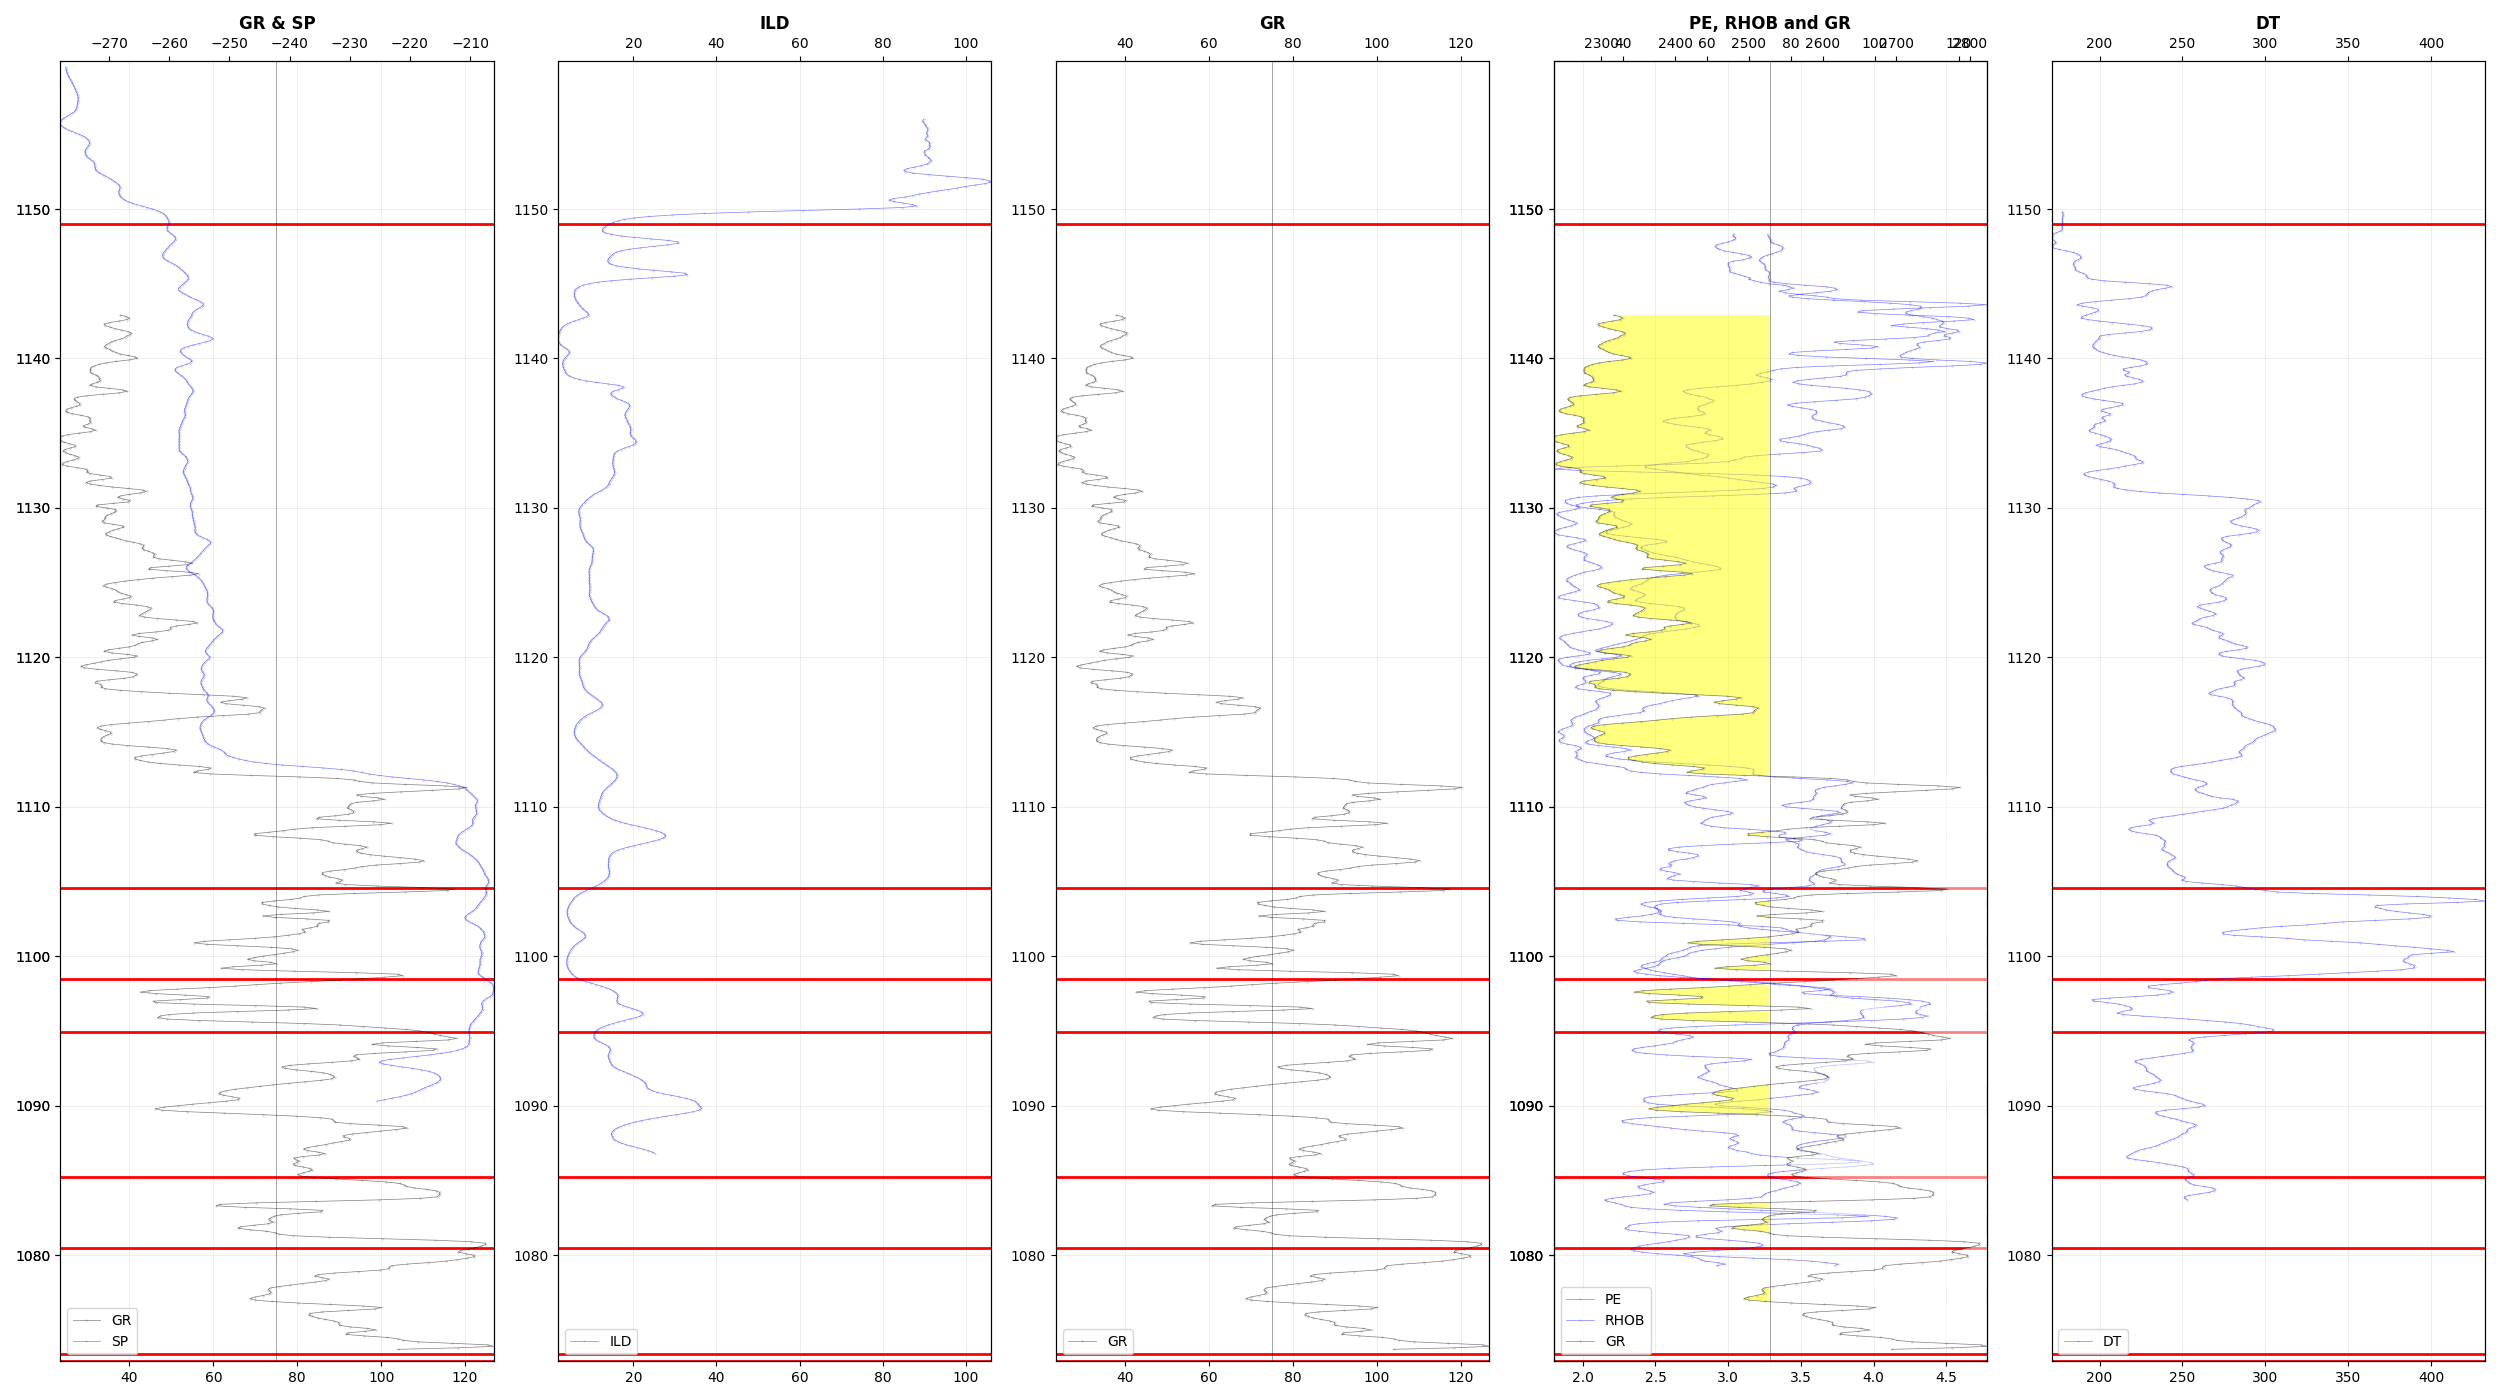
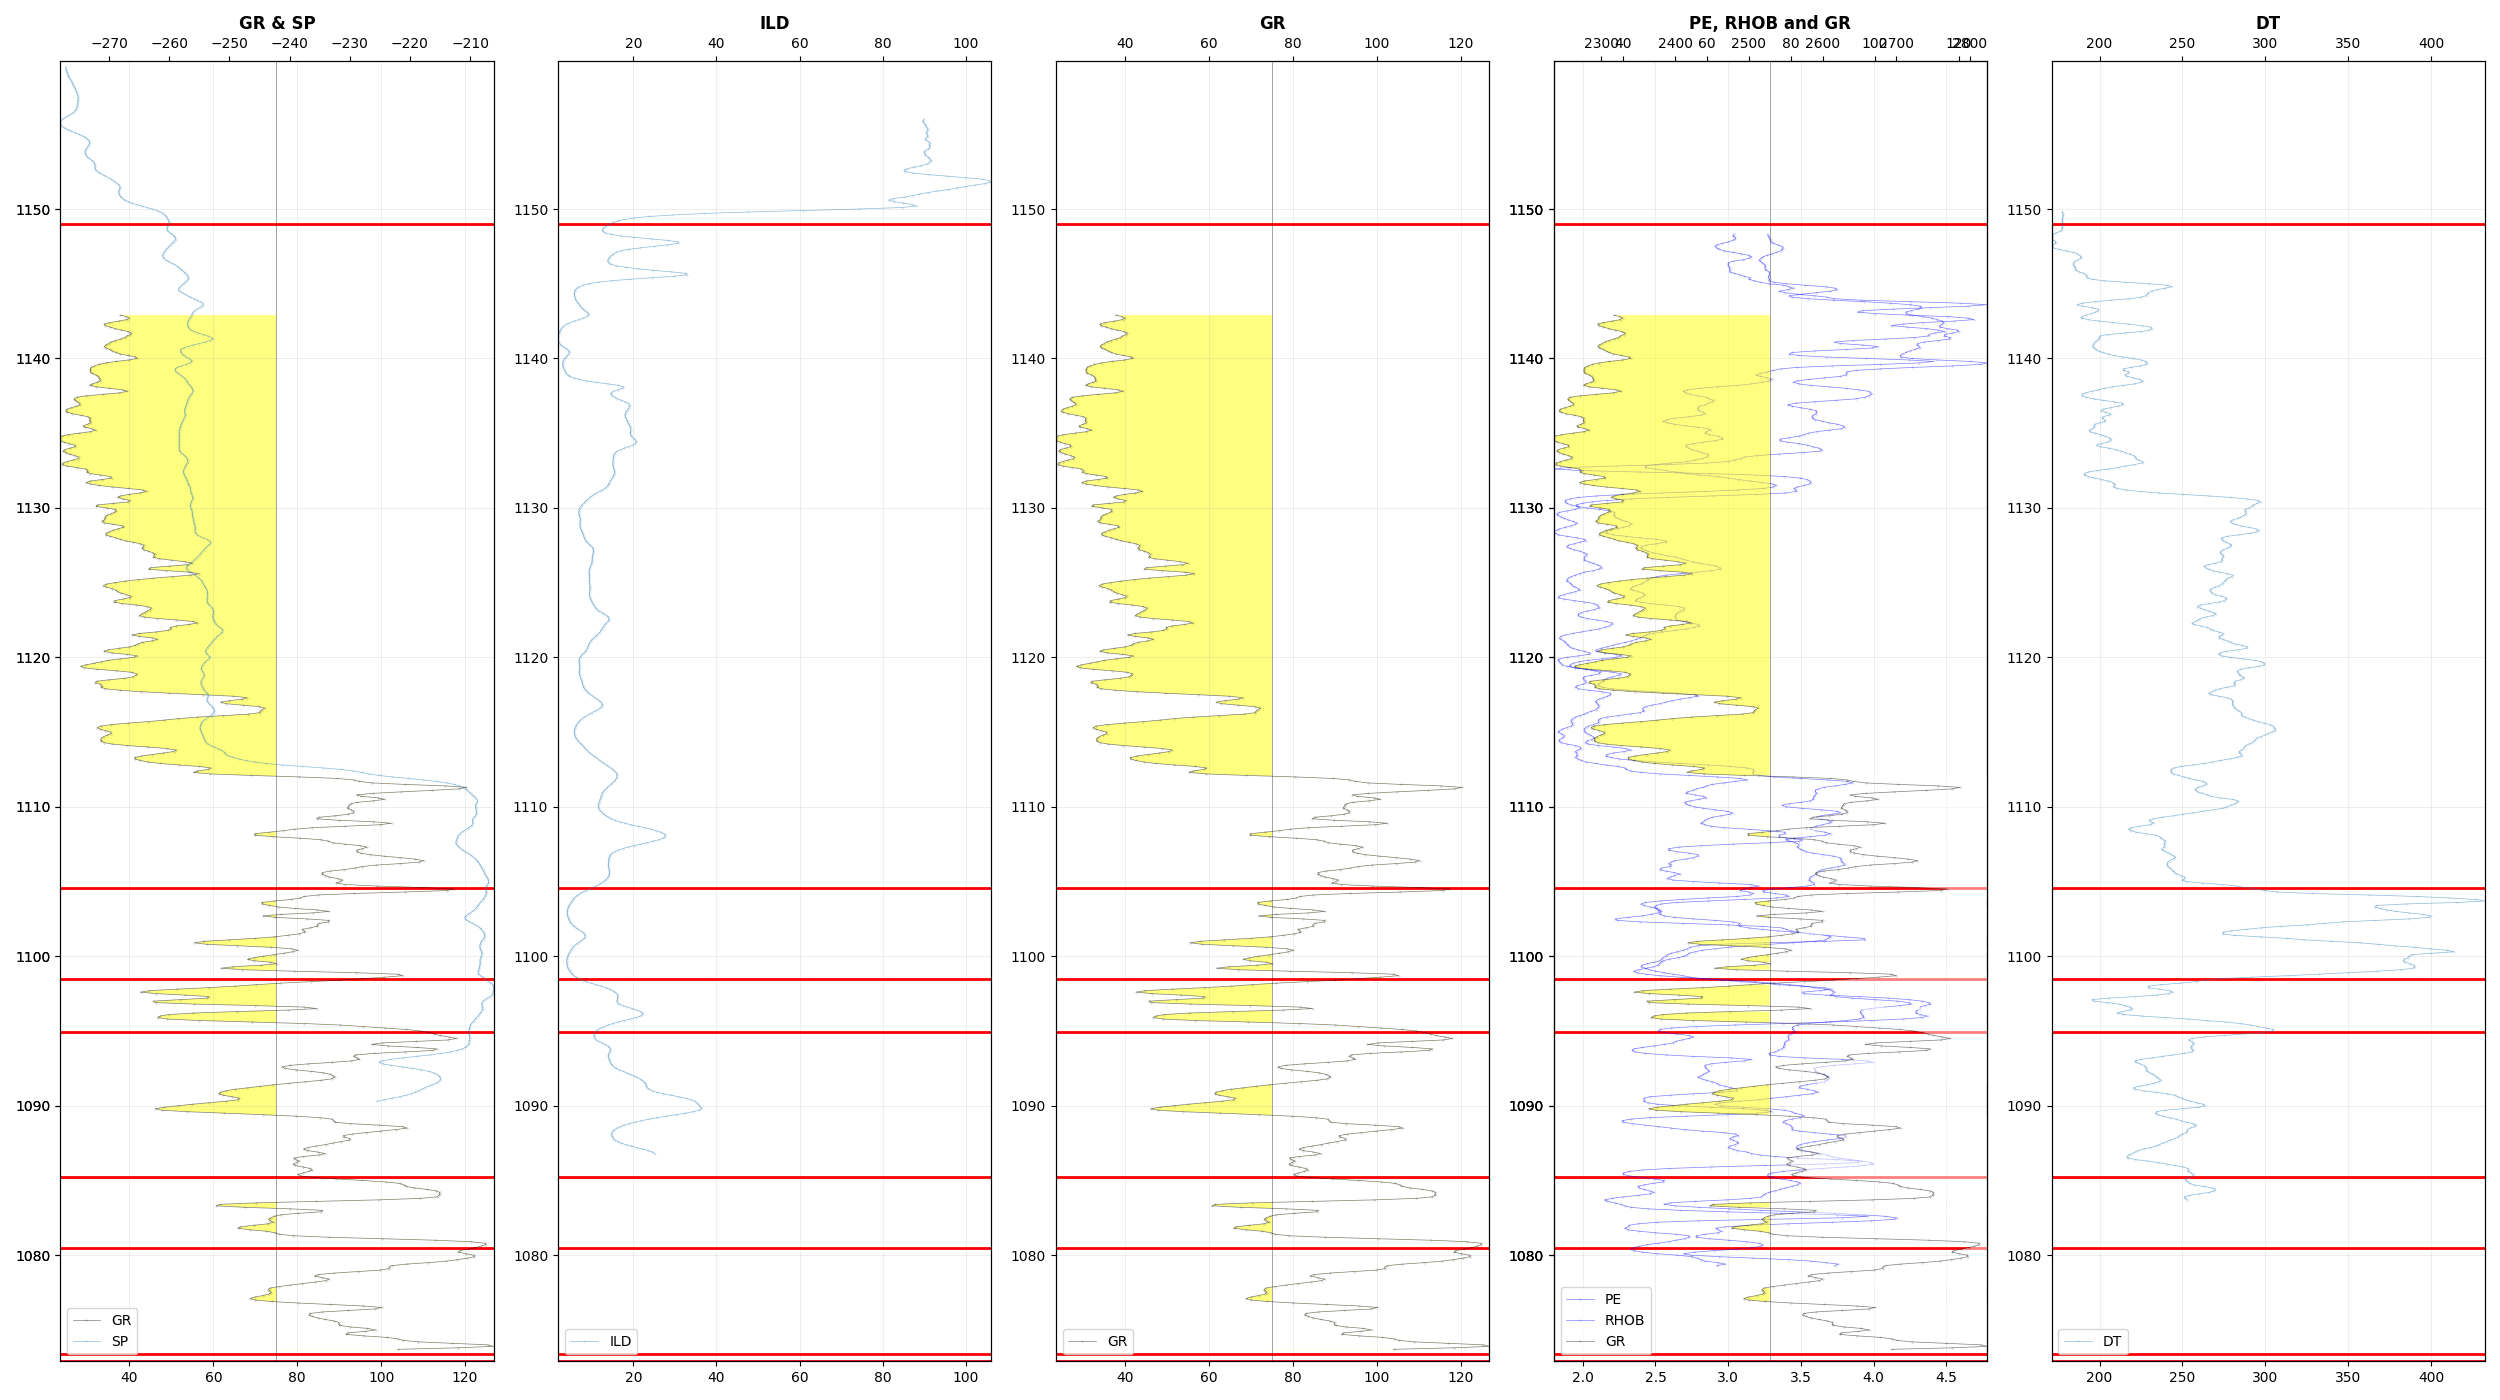
fixed 3rd GR colors

diff --git a/examples/allcurves3_andy0612_driver.py b/examples/allcurves3_andy0612_driver.py
@@ -98,9 +98,6 @@ def main():
         # creating a new x-axis on the top for next curve but for same graph
         ax2 = ax.twiny()
 
-        colors = ['blue', 'purple', 'red', 'green', 'orange']
-        color_index = 0
-
         for j, curve in enumerate(curves):
             print(f'Plotting curve: {curve}...')
             if curve == 'GR':
@@ -114,7 +111,7 @@ def main():
             else:
                 next_ax = ax2 if j > 0 and ax2 else ax
                 df.plot(
-                    x=curve, y='DEPTH', color=colors[color_index], ax=next_ax, label=curve,
+                    x=curve, y='DEPTH', ax=next_ax, label=curve,
                     linewidth=0.5, marker='o', markersize=0.2, alpha=0.5)
 
         # adjusting proper y limits and x limits

diff --git a/examples/allcurves2_andy0612_driver.py b/examples/allcurves2_andy0612_driver.py
@@ -36,7 +36,6 @@ def main():
             ax2 = ax.twiny()
             ax3 = ax.twiny()
 
-
             for j, curve in enumerate(curves):
                 print(f'Plotting curve: {curve}...')
                 if curve == 'PE':
@@ -123,8 +122,6 @@ def main():
         ax.set_xlim(df[curves[0]].min(), df[curves[0]].max())
         if ax2:
             ax2.set_xlim(df[curves[-1]].min(), df[curves[-1]].max())
-
-
 
         # removing x axis which sometimes works...
         ax.set_xlabel('')
